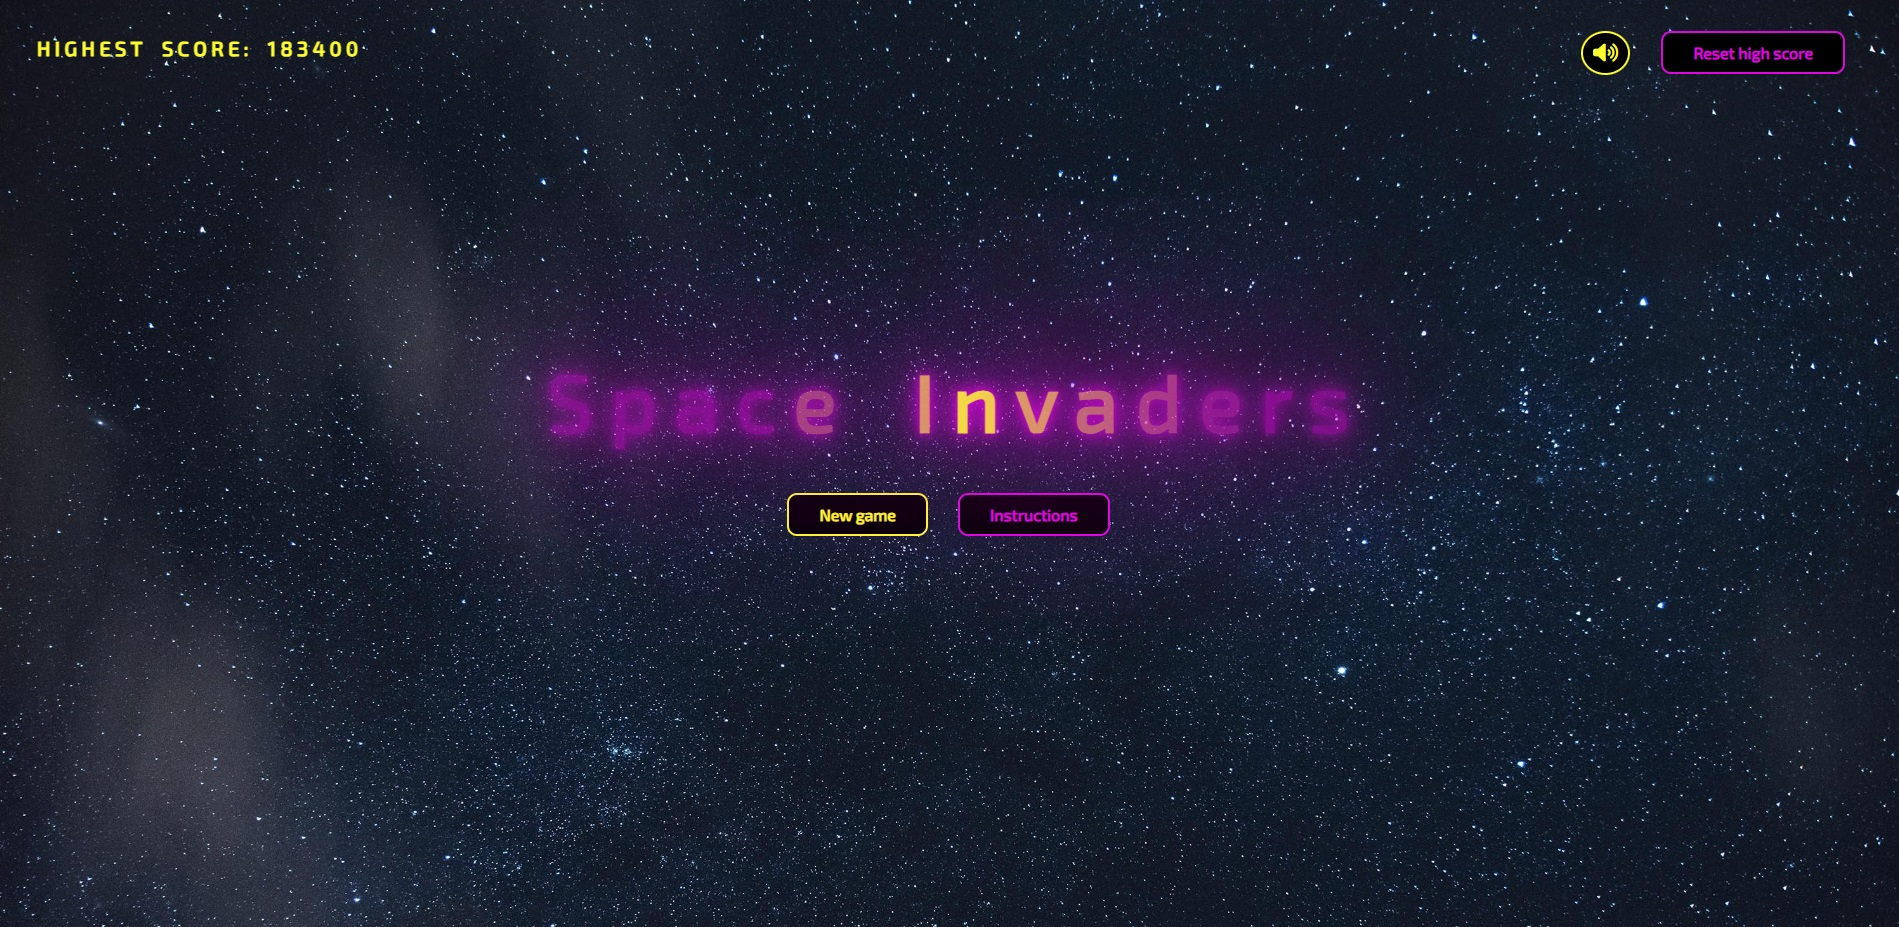
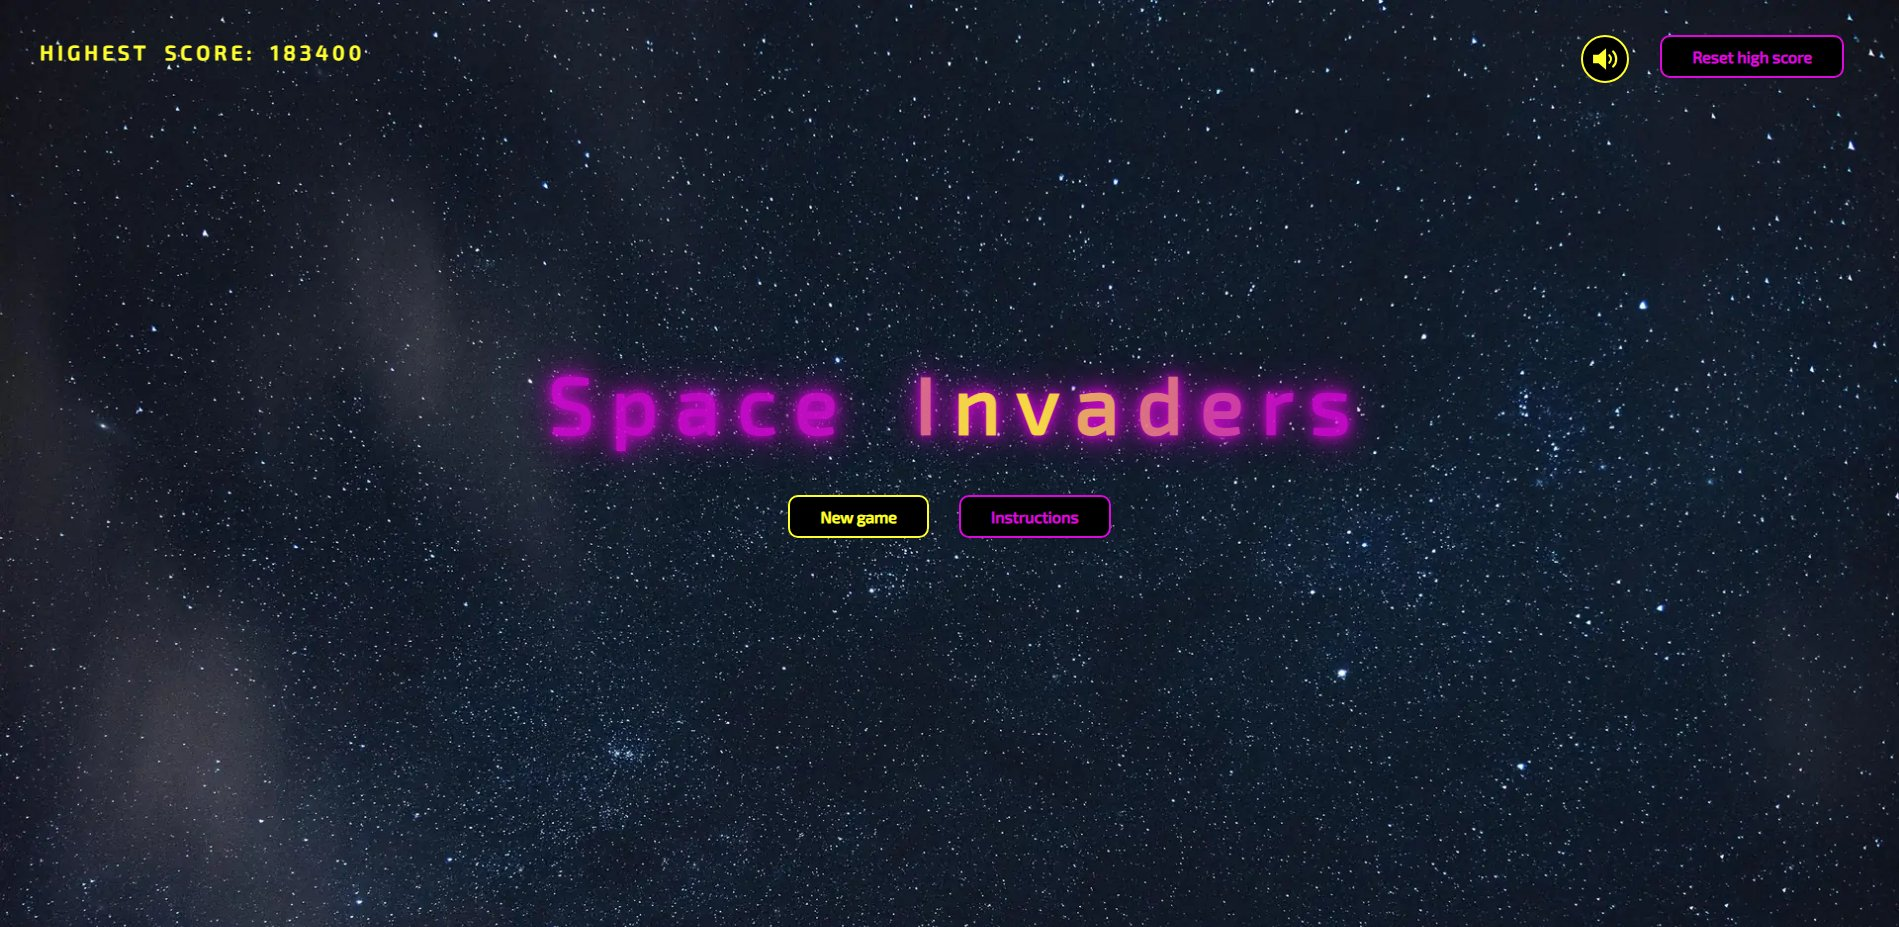
Update README features: add how to play and accessibility, refresh screenshots

diff --git a/README.md b/README.md
@@ -41,6 +41,14 @@ The chosen color palette for the Space Invaders game collectively creates a visu
 
 ## Features
 
+### How to play
+
+- **Move:** A and D, the left and right arrow keys, or 4 and 6 on the numpad.
+- **Fire:** press Space. Hold it down to keep firing, one shot every 2 seconds.
+- **Score:** each alien is worth 200 to 1,000 points depending on its colour, and clearing a whole wave adds 10,000.
+- **Stages:** every 100,000 points clears a stage. Each stage brings more of the tougher aliens and makes new waves arrive sooner. There are 10 stages.
+- **Game over:** when an alien projectile hits your ship, or when any alien reaches your ship's row.
+
 ### Current features
 
 - On the main menu, the highest score is retrieved from the local storage and shown with a bouncing animation to catch the user's attention. If there is no high score, nothing displays: <br>
@@ -76,7 +84,7 @@ The chosen color palette for the Space Invaders game collectively creates a visu
 
 ![Game title](documentation/title.png) <br>
 
-- At the bottom of the page is a link to this github along the credits, with a themed hover effect on the github icon: <br>
+- At the bottom of the page is a footer with a link to this project's GitHub repository. The GitHub icon glows on hover and on keyboard focus: <br>
 
 ![Credits and github link](documentation/githublink.png) <br>
 ![Hover effect on github link](documentation/themedhovereffect.png) <br>
@@ -89,13 +97,21 @@ The chosen color palette for the Space Invaders game collectively creates a visu
 
 ![Difficulty increase trigger](documentation/stageclear.png) <br>
 
-- When the ship is destroyed by an alien projectile, the game ends and a modal opens showing your current score. Within this menu is an option to play again via the "Play again" button or an option to return to the main menu via the "Main menu" button: <br>
+- The game ends when an alien projectile hits the ship, or when any alien reaches the ship's row. A modal then opens showing your score, with a "Play again" button to start a new game and a "Main menu" button to go back: <br>
 
 ![End game modal](documentation/endgamemodal.png) <br>
 
 - When the game ends the local storage is checked against the current score. If the current score is higher animated text appears saying "NEW HIGH SCORE": <br>
 
 ![New high score achieved](documentation/newhighscore.png) <br>
+
+### Accessibility
+
+- The Instructions and Game over screens are proper dialogs: focus moves into them and Tab stays inside. Escape or clicking outside closes the instructions; the Game over screen needs you to pick "Play again" or "Main menu", so Escape is blocked there.
+- Screen readers hear "Space Invaders", "Highest score: …" and "New high score!" instead of the animated letters one by one, and each cleared stage is announced.
+- The sound button tells screen readers whether sound is on or off, and the game area has a label describing the controls.
+- With "reduce motion" turned on in the system settings, the title, high score and reset-button animations stay still.
+- If the browser blocks site storage, the game still runs; it just can't save the high score or the sound setting.
 
 ### Future features
 
@@ -106,7 +122,7 @@ The chosen color palette for the Space Invaders game collectively creates a visu
 - Mini bosses can be added into the game after each stage.
 - More ranks of aliens can be added (i.e more powerful than the red aliens with more pressurising projectiles).
 - A game difficulty can be implemented for those who are more casual gamers as well as for the skilled gamers.
-- It could possible be made responsive (I am unsure of how to establish this).
+- It could possibly be made responsive (I am unsure of how to establish this).
 
 ## Technologies used
 
